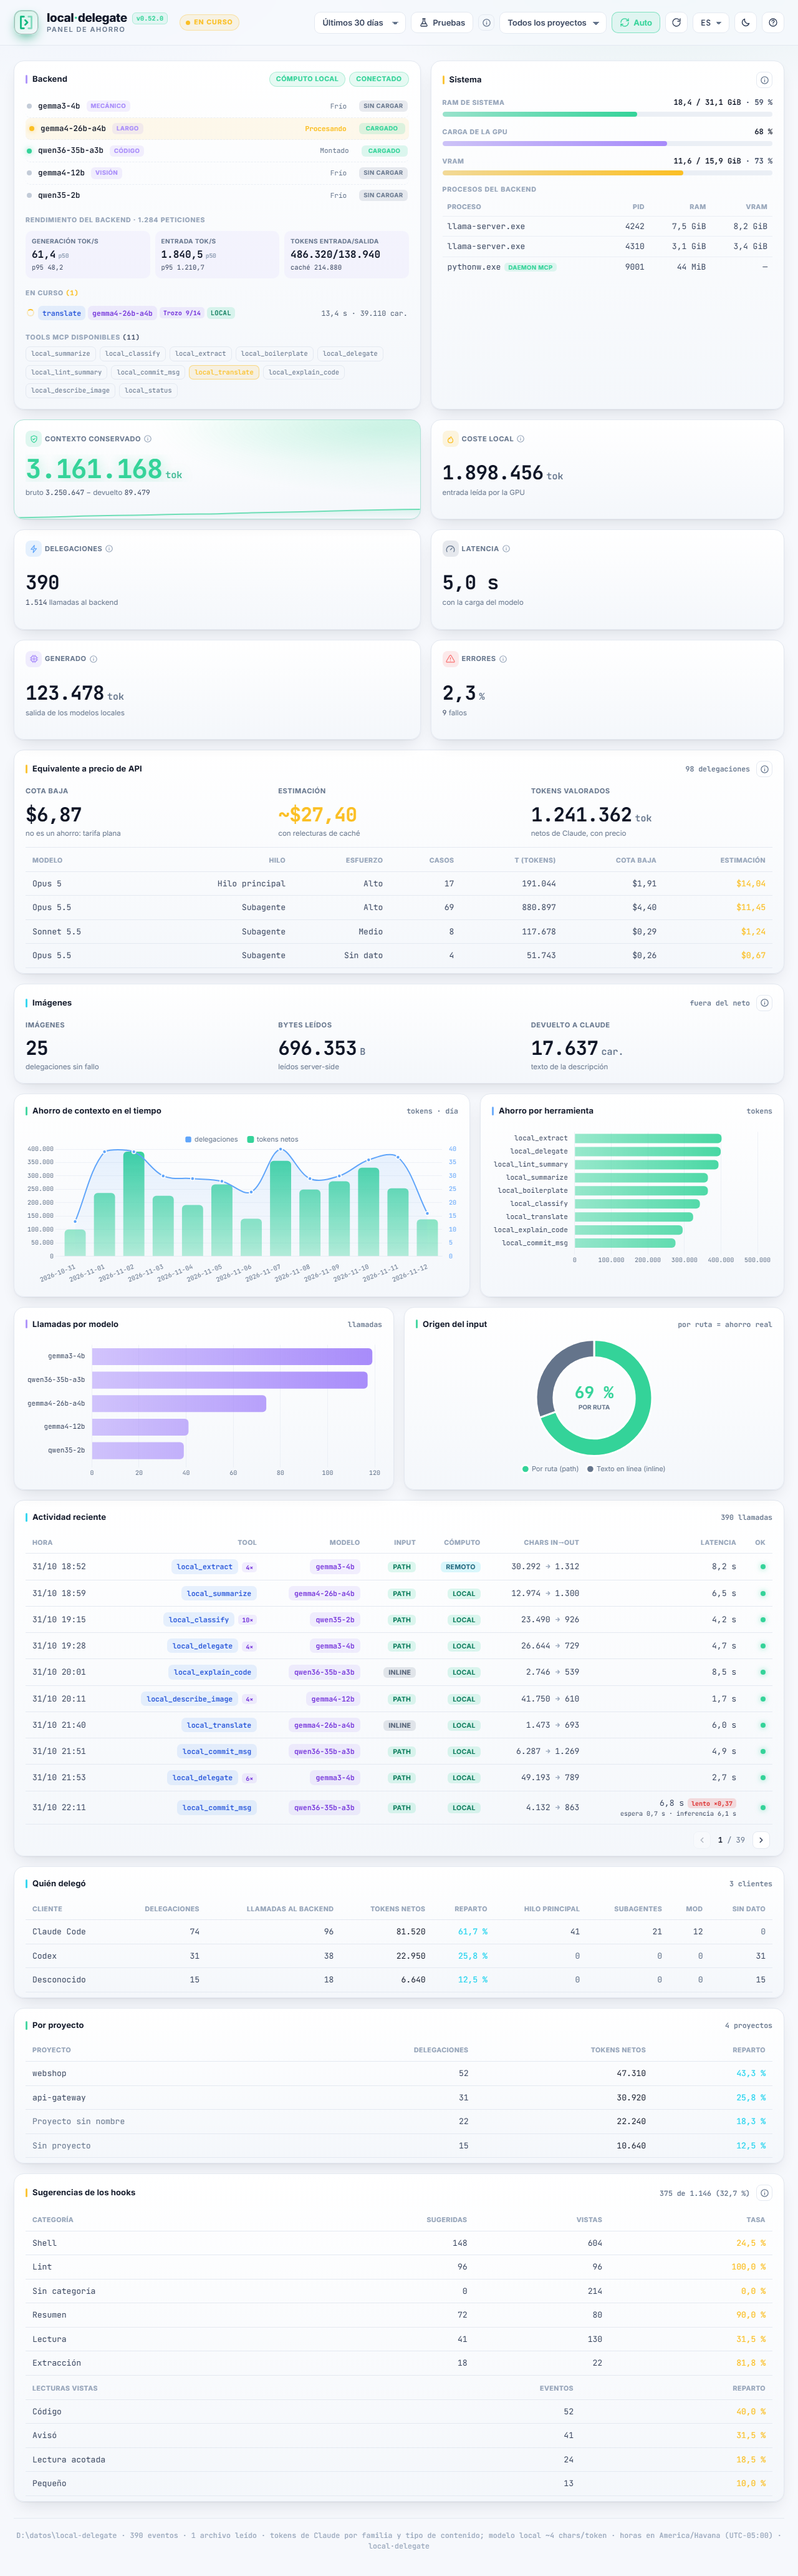
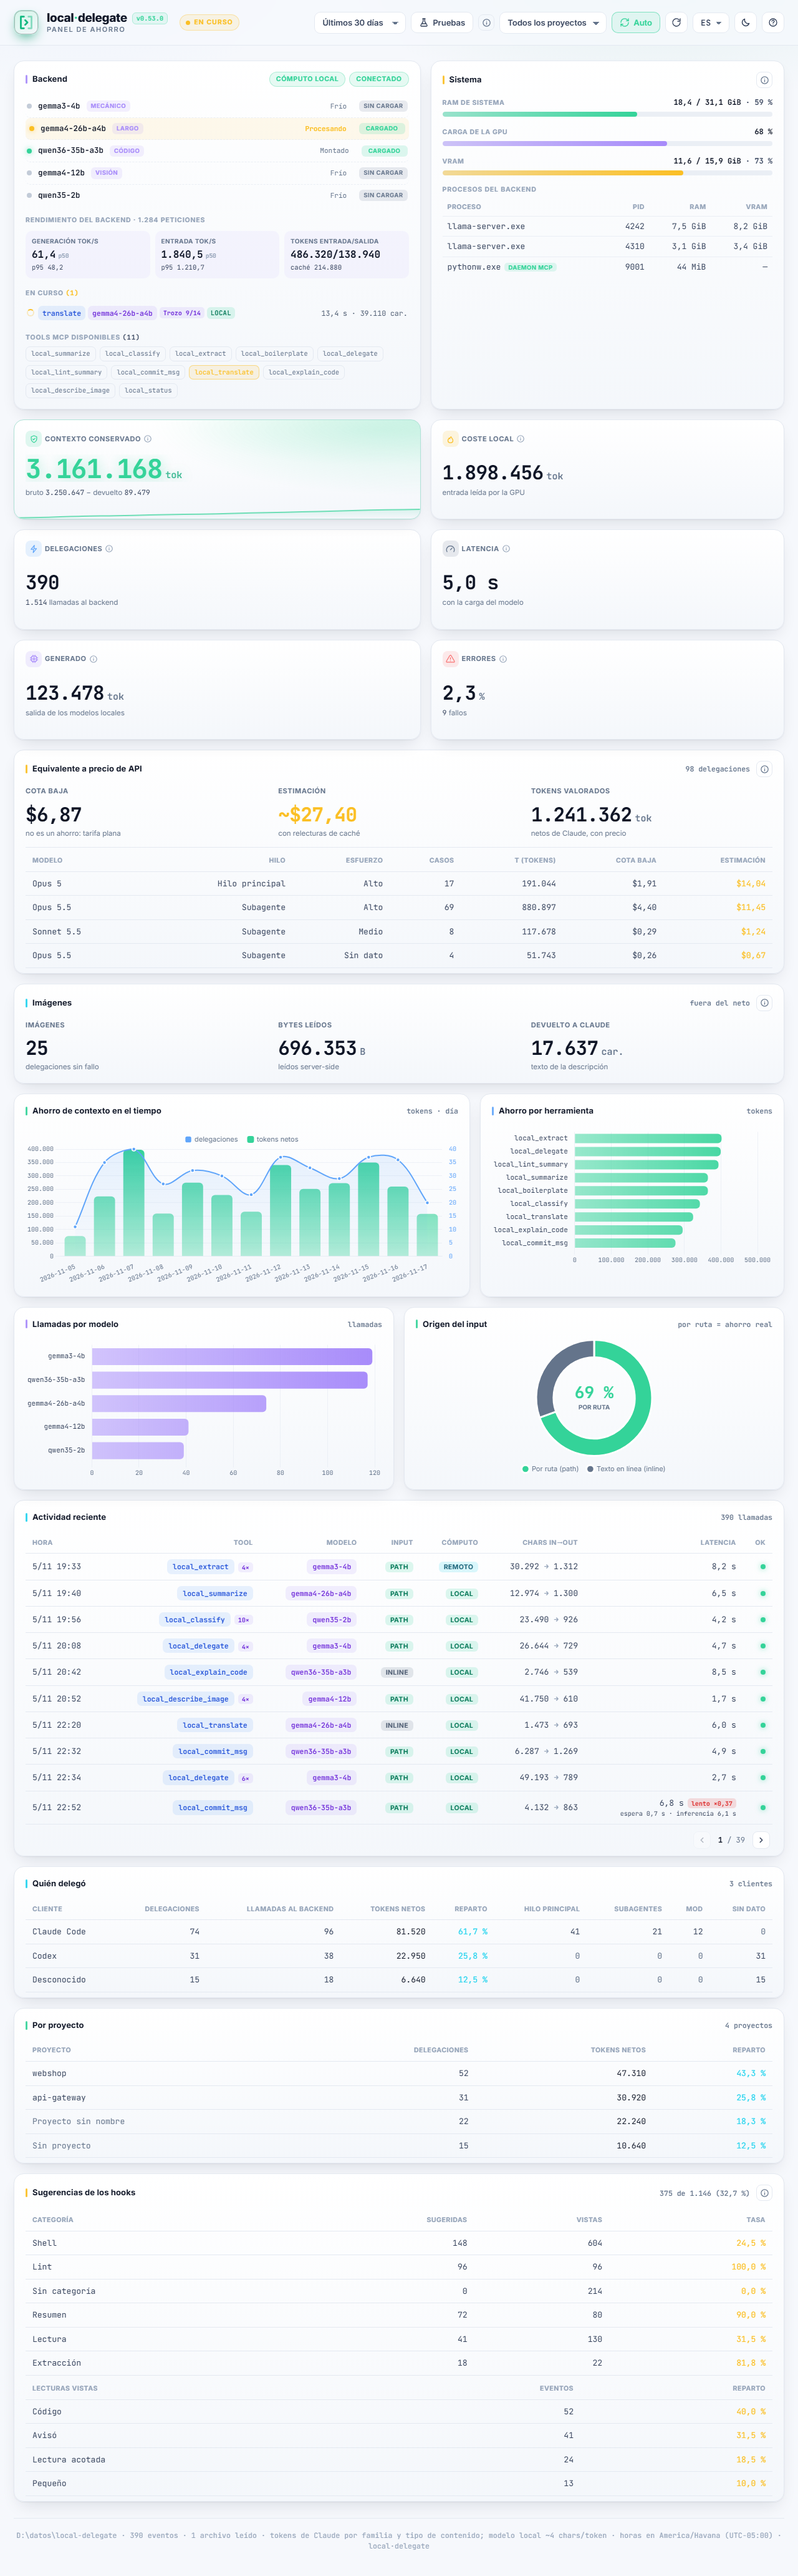
chore: release v0.53.0
Bump the version to 0.53.0 in pyproject.toml, server.json, the plugin manifests and uv.lock
(only the package line; the local uv rewrote the whole lock, so it was restored and edited by
hand as in 0.51.0 and 0.52.0); turn [Unreleased] into the 0.53.0 section with a summary and
upgrade steps (restart the daemon; with Codex, approve the two new hooks in /hooks after install
or update), add the PR numbers to every entry, a Dependencies section for #673-#675 and the
0.53.0 comparison link. doctor goes from 35 to 37 checks with codex.plugin and codex.hooks.

Add README lines for the Codex checks of doctor, the non-UTF-8 path reading, the
polarity_flipped_keys and diff_files of local_extract and the no-measuring notice of
local_describe_image. The wiki already described all of it.

Regenerate the dashboard screenshots so the badge shows 0.53.0.

diff --git a/CHANGELOG.md b/CHANGELOG.md
@@ -6,9 +6,35 @@ y el proyecto usa [Versionado Semántico](https://semver.org/lang/es/).
 
 ## [Unreleased]
 
+## [0.53.0] - 2026-11-16
+
+Codex recibe los avisos de delegación y `local_extract` desconfía mejor de sus propias respuestas.
+`install` pone en `~/.codex/hooks.json` dos hooks consultivos (el aviso de tarea mecánica y la
+pista de cada subagente) y `doctor` gana dos checks de Codex, `codex.hooks` y `codex.plugin` (37 en
+total), este último para avisar del plugin de Claude Code importado en Codex, que no lo puede leer.
+`local_extract` calcula por programa los ficheros de un diff (`diff_files`), rehace en mitades una
+respuesta de líneas cortada y avisa cuando un valor invierte la negación de la fuente
+(`polarity_flipped_keys`). Un `path` que no es UTF-8 se lee sin perder caracteres y avisa;
+`local_describe_image` dice que no sirve para medir; y un subagente con lista cerrada de tools ya no
+recibe órdenes de delegar que no puede cumplir.
+
+### Cómo actualizar
+
+- **En la PC y en la Mac:** ejecuta `local-delegate update` o, si instalaste con versión fija,
+  reinstala con `uv tool install --force --no-cache "local-delegate-mcp[llamaswap]==0.53.0"` (con
+  tus extras). **Reinicia el daemon** para que sirva las tools de esta versión, y haz `/mcp` en
+  Claude Code (o abre una sesión nueva): las sesiones abiertas siguen con el servidor MCP de la
+  0.52.0 hasta entonces.
+- **Con Codex:** tras `install` o `update`, abre `/hooks` en Codex y aprueba los dos hooks nuevos de
+  `local-delegate`; Codex no los ejecuta hasta entonces, y `local-delegate` no escribe esa
+  aprobación. `doctor` (check `codex.hooks`) dice si están configurados, aprobados y vistos
+  despachar. Si importaste a mano el plugin de Claude Code en Codex, `doctor` (check
+  `codex.plugin`) te da el `codex plugin remove` que lo quita.
+- No hace falta cambiar la configuración.
+
 ### Añadido
 
-- **Hooks de Codex (#669, núcleo).** Con Codex instalado (o `--clients codex`), `install` añade a
+- **Hooks de Codex (#669, #682).** Con Codex instalado (o `--clients codex`), `install` añade a
   `~/.codex/hooks.json` dos hooks consultivos: `UserPromptSubmit` (el aviso de tarea mecánica) y
   `SubagentStart` (cómo usar las `local_*` con `path` en cada subagente). No tocan ni mueven tus
   grupos, así que no pierden su aprobación; Codex no los ejecuta hasta que los apruebas en
@@ -21,7 +47,7 @@ y el proyecto usa [Versionado Semántico](https://semver.org/lang/es/).
   paso.
 
 - **`doctor` avisa si el plugin de Claude Code está importado en Codex, que no lo puede leer
-  (#668).** Codex lee los marketplaces de Claude Code, así que el plugin se puede importar a mano
+  (#668, #677).** Codex lee los marketplaces de Claude Code, así que el plugin se puede importar a mano
   (`codex plugin marketplace add` + `codex plugin add`). Pero Codex 0.169.0 solo admite
   `description` y `hooks` arriba del todo en `hooks/hooks.json`, y el `modules` del mod hace que
   rechace el fichero entero con un simple aviso al arrancar: el plugin sale habilitado y en caché y
@@ -33,17 +59,17 @@ y el proyecto usa [Versionado Semántico](https://semver.org/lang/es/).
   formato de Codex, `ok`, sin afirmar que cargue. Las reglas copian el parser de Codex 0.169.0 (`openai/codex`, etiqueta
   `rust-v0.169.0`) y las fixtures de `tests/fixtures/codex_plugin` se cargaron en un Codex real
   con un `CODEX_HOME` temporal. `install` sigue sin poner el plugin en Codex: allí da la entrada
-  MCP y `AGENTS.md`. `doctor` pasa de 35 a 36 checks.
+  MCP y `AGENTS.md`. Con este check y `codex.hooks`, `doctor` pasa de 35 a 37 checks.
 
 ### Corregido
 
-- **`local_extract` sobre un diff grande ya no devuelve solo el primer fichero** (#665). Con `path`
+- **`local_extract` sobre un diff grande ya no devuelve solo el primer fichero** (#665, #676). Con `path`
   a un `.patch` de varios ficheros y un campo como `ficheros_con_lineas`, la respuesta traía
   `package.json: líneas 1-21` y nada más, sin aviso. La unión de los trozos estaba bien; el fallo
   era que el modelo nombraba solo el primer `diff --git` de lo que leía. Ahora un campo que solo
   pide los ficheros y sus líneas lo calcula el programa desde el parche (`ruta: primera-última`,
   uno por fichero) y `_local_delegate.diff_files` lo dice.
-- **`local_extract` con un campo de líneas ya no devuelve un JSON cortado en silencio** (#666). Si
+- **`local_extract` con un campo de líneas ya no devuelve un JSON cortado en silencio** (#666, #676). Si
   la llamada única se cortaba por `max_tokens`, el resultado era el error «respuesta no parseable
   como JSON» y las líneas inventadas no se comprobaban. Ahora esa llamada se rehace en mitades y
   los campos de líneas se unen por programa; si aun así no hay JSON, el error dice que el corte fue
@@ -51,7 +77,7 @@ y el proyecto usa [Versionado Semántico](https://semver.org/lang/es/).
   cuando salen de un trozo cortado.
 
 - **Un subagente con lista cerrada de tools ya no recibe órdenes de delegar que no puede cumplir
-  (#664).** Un agente con `tools: Read, Grep, Glob` en su definición no tiene `ToolSearch` ni las
+  (#664, #681).** Un agente con `tools: Read, Grep, Glob` en su definición no tiene `ToolSearch` ni las
   `local_*`, pero el recordatorio de `SubagentStart`, la pista de `Read` en código grande y el
   bloqueo de la prosa grande (en `Read` y en el shell) lo mandaban a ellas. La entrada del hook no
   trae la lista de tools y el transcript no la distingue (uno de lista cerrada no tiene ningún
@@ -62,7 +88,7 @@ y el proyecto usa [Versionado Semántico](https://semver.org/lang/es/).
   sigue como antes. El bloque de `CLAUDE.md` y la skill dicen qué hacer en ese caso: quien lanza el
   agente delega antes y le pasa el resultado, o elige un tipo que herede las tools o nombre las
   `local_*`; el subagente lee por rangos y lo dice en su informe.
-- **`local_describe_image` avisa de que no mide (#663).** El modelo de visión afirmó que un botón
+- **`local_describe_image` avisa de que no mide (#663, #679).** El modelo de visión afirmó que un botón
   estaba desalineado entre dos barras de una captura y que un valor se partía en dos líneas, y las
   medidas del DOM lo desmintieron; un agente con solo la imagen habría informado de dos defectos
   que no existen. Ahora la descripción de la tool, la skill `local-delegation` y la wiki dicen que
@@ -71,7 +97,7 @@ y el proyecto usa [Versionado Semántico](https://semver.org/lang/es/).
   español o en inglés), la respuesta termina con un aviso por programa: el prompt del rol `vision`
   no cambia y la respuesta del modelo se devuelve tal cual.
 
-- **`local_extract` avisa cuando un valor dice lo contrario que la entrada (#667).** El modelo
+- **`local_extract` avisa cuando un valor dice lo contrario que la entrada (#667, #680).** El modelo
   mecánico (gemma3-4b) devolvió «Do not review code real of the mod and adapters…» donde el
   documento pedía revisar ese código: la negación de la frase siguiente («no inferir la respuesta
   desde las skills») pasó a la primera al traducirla. El programa no cambia ninguna palabra de un
@@ -83,7 +109,7 @@ y el proyecto usa [Versionado Semántico](https://semver.org/lang/es/).
   ni con ninguna frase de la wiki y del CHANGELOG copiada contra su propio fichero. El prompt no
   cambia.
 - **Un fichero que no es UTF-8 ya no pierde caracteres en silencio ni da falsos «datos inventados»
-  (#672).** Con `path`, el servidor leía todo como UTF-8 sustituyendo lo que no entendía: un texto
+  (#672, #678).** Con `path`, el servidor leía todo como UTF-8 sustituyendo lo que no entendía: un texto
   en Latin-1 (la salida de `pdftotext` en Windows) perdía sus `²`, `³` y tildes sin aviso, y la
   revisión de #630 tomaba por inventados los `m²`/`m³` que el resumen copiaba del fichero. Ahora se
   prueba UTF-8 estricto; un fichero con BOM de UTF-16 se lee como UTF-16, y el resto como
@@ -93,7 +119,7 @@ y el proyecto usa [Versionado Semántico](https://semver.org/lang/es/).
   `_local_delegate.warning` e `input_encoding`. La revisión de #630 compara las dos partes en la
   misma forma Unicode (NFC) y solo mira las letras de cada palabra, así que `m²` ya no es «una
   palabra de otro idioma». Un fichero UTF-8 se lee igual que antes.
-- **Un mirror de apt lento o sin DNS ya no deja el CI de main en rojo.** Tras la 0.52.0, `lint`
+- **Un mirror de apt lento o sin DNS ya no deja el CI de main en rojo (#662).** Tras la 0.52.0, `lint`
   agotó los 5 minutos de `playwright install --with-deps` y `test-lang-es` salió con el código 100
   de apt, sin ningún cambio de código: el runner no resolvía los mirrors de Ubuntu. Ahora, en los
   dos trabajos, el navegador sale de una caché atada al sistema y a la versión exacta de playwright
@@ -102,6 +128,12 @@ y el proyecto usa [Versionado Semántico](https://semver.org/lang/es/).
   con el tope corriendo como root para que un `apt-get` colgado no deje el lock tomado
   (`scripts/ci_playwright_system_packages.sh`). `tests/test_ci_gate.py` ata esa forma. Sin efecto
   para quien usa el paquete.
+
+### Dependencias
+
+- **Al día (#673–#675, de Dependabot):** `fastapi` 0.162.5 y `filelock` 4.2.10; de desarrollo,
+  `ruff` 0.17.5 y `playwright` 1.65.1. Socket da 0,98 o más a las tres primeras; a `playwright`,
+  0,70 de licencia y 0,75 de cadena de suministro (solo se usa en el CI y en las capturas).
 
 ## [0.52.0] - 2026-11-11
 
@@ -5178,7 +5210,8 @@ los ficheros de datos. Lo que lee el usuario sigue en español.
 - Empaquetado para PyPI (`local-delegate-mcp`) ejecutable con `uvx`; `server.json` para el
   registro oficial de MCP.
 
-[Unreleased]: https://github.com/ZahiriNatZuke/local-delegate/compare/v0.52.0...HEAD
+[Unreleased]: https://github.com/ZahiriNatZuke/local-delegate/compare/v0.53.0...HEAD
+[0.53.0]: https://github.com/ZahiriNatZuke/local-delegate/compare/v0.52.0...v0.53.0
 [0.52.0]: https://github.com/ZahiriNatZuke/local-delegate/compare/v0.51.0...v0.52.0
 [0.51.0]: https://github.com/ZahiriNatZuke/local-delegate/compare/v0.50.0...v0.51.0
 [0.50.0]: https://github.com/ZahiriNatZuke/local-delegate/compare/v0.49.0...v0.50.0

diff --git a/README.md b/README.md
@@ -155,27 +155,28 @@ auto-arranque de llama-swap es opt-in (ver tabla de configuración).
 ¿Qué versiones de `llama-server`/`llama-swap` usar y cómo disponer el workspace? Ver
 [Versiones del backend y workspace de referencia](./docs/wiki/Backend-versions.md) (sugerencia
 probada, no requisito). `local-delegate doctor` compara tu instalación contra esas versiones y, de
-paso, comprueba el resto del andamiaje —hooks, skill, memoria, entradas MCP, el daemon y que el
-modelo de cada rol esté en la lista del backend— sin
+paso, comprueba el resto del andamiaje —hooks, skill, memoria, entradas MCP, el daemon, que el
+modelo de cada rol esté en la lista del backend y, en Codex, los hooks y el plugin— sin
 escribir nada ([qué mira cada check](./docs/wiki/Integration-install.md#comprobar-la-instalación-local-delegate-doctor)).
 
 ## Tools
 
 Pasar `path` (en vez de `text`) hace que el MCP lea el archivo server-side: el contenido no entra
-al contexto de Claude, y de ahí sale el ahorro.
+al contexto de Claude, y de ahí sale el ahorro. Un fichero que no es UTF-8 (UTF-16 con BOM,
+Windows-1252) se lee sin perder caracteres y la respuesta lo avisa.
 
 | Tool | Qué hace | Rol de modelo (default) |
 |---|---|---|
 | `local_summarize` | Resume texto o archivo; `focus` opcional para decir qué conservar (p. ej. «cifras de configuración»); avisa si el resumen trae siglas, palabras o cifras que la entrada no tiene | mecánico / largo (auto; una entrada pequeña con tabla va a largo) |
 | `local_classify` | Devuelve UNA etiqueta de una lista | mecánico |
-| `local_extract` | Extrae campos → **objeto validado** con exactamente las claves pedidas (las que falten o vengan como «N/A», `null`), no una cadena que haya que parsear; con `path`, números de línea reales para un campo que los pida; una entrada pequeña con tabla (HTML, ARIA, Markdown/GFM, CSV o TSV) va al modelo largo y `_local_delegate.role_reason` lo dice con su `format`; si el valor de una clave sale de la fila de otra clave pedida, avisa en `cross_filled_keys` | mecánico / largo (auto; también con tabla) |
+| `local_extract` | Extrae campos → **objeto validado** con exactamente las claves pedidas (las que falten o vengan como «N/A», `null`), no una cadena que haya que parsear; con `path`, números de línea reales para un campo que los pida; una entrada pequeña con tabla (HTML, ARIA, Markdown/GFM, CSV o TSV) va al modelo largo y `_local_delegate.role_reason` lo dice con su `format`; si el valor de una clave sale de la fila de otra clave pedida, avisa en `cross_filled_keys`, y si invierte una negación de la entrada, en `polarity_flipped_keys`; sobre un diff, los ficheros y sus líneas los calcula el programa (`diff_files`) | mecánico / largo (auto; también con tabla) |
 | `local_boilerplate` | Genera código desde una spec y lo **escribe en `target`**; devuelve solo un recibo | código |
 | `local_delegate` | Escape genérico texto→texto | mecánico (o el que pases) |
 | `local_lint_summary` | Resume logs de lint/tests/CI; con pytest parte de los fallos reales del log y avisa si el resumen no cuadra con ellos | mecánico / largo (auto) |
 | `local_commit_msg` | Mensaje de commit desde un diff; con `path` toma el idioma del repo y avisa si no pudo; con un diff enorme acaba a tiempo con lo leído y lo avisa; troceado, avisa y lista las condiciones cambiadas para revisarlo | código |
 | `local_translate` | Traduce texto o archivo | mecánico / largo (auto) |
 | `local_explain_code` | Explica código en prosa; con `path` y pregunta avisa de líneas citadas dudosas y de una premisa que el código no sostiene, aunque la respuesta la sitúe junto a código real | código |
-| `local_describe_image` | Describe una imagen o responde una pregunta sobre ella (imagen→texto) | visión |
+| `local_describe_image` | Describe una imagen o responde una pregunta sobre ella (imagen→texto); no mide alineación, tamaños ni saltos de línea, y avisa cuando la pregunta o la respuesta hablan de eso | visión |
 | `local_status` | Diagnóstico de solo lectura: backend, catálogo, log, VRAM, RAM de sistema | — (no llama al backend de chat) |
 
 Los modelos locales **no** usan tool-calling: el server arma el prompt + guardrails, hace POST al
@@ -394,7 +395,7 @@ a propósito:
 | Memoria | bloque gestionado en `~/.claude/CLAUDE.md`, `~/.codex/AGENTS.md` y `~/.config/opencode/AGENTS.md` | la regla en una nota corta siempre cargada |
 
 Por defecto se configuran **solo los clientes que tengas instalados**; se elige a mano con
-`--clients claude|codex|opencode`. Los **hooks** son de Claude Code y, desde esta versión, también
+`--clients claude|codex|opencode`. Los **hooks** son de Claude Code y, desde la 0.53.0, también
 de Codex: dos consultivos en `~/.codex/hooks.json` que no tocan ni mueven los tuyos y que no
 corren hasta que los apruebas en `/hooks`; todavía no hay hooks sobre las herramientas de Codex
 (llamadas MCP, shell, `apply_patch`). Ver
